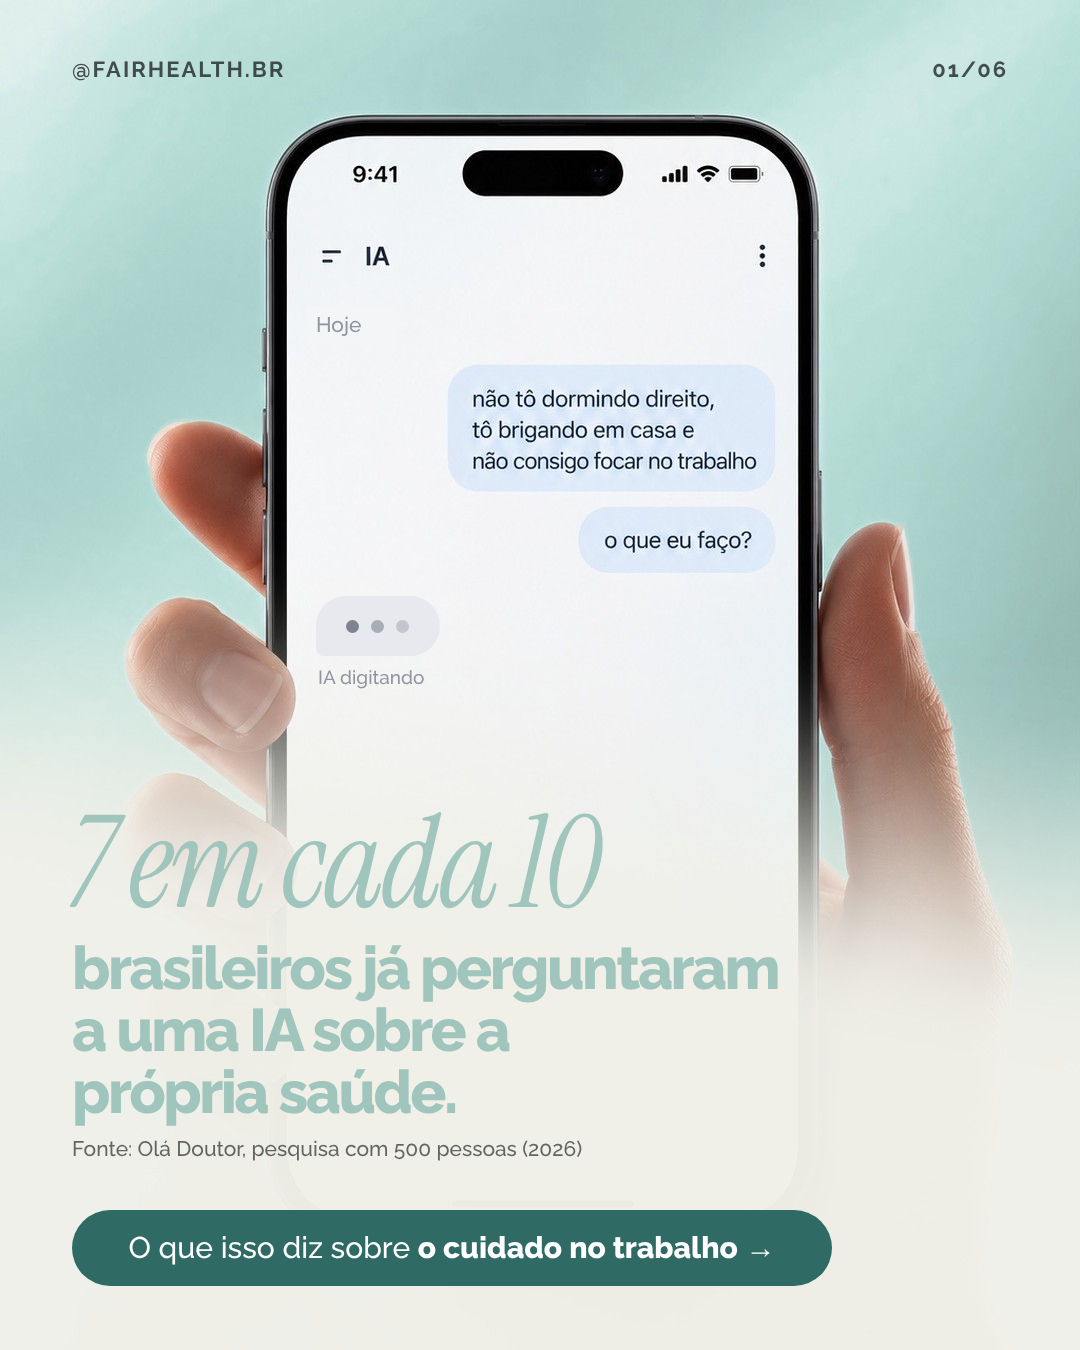
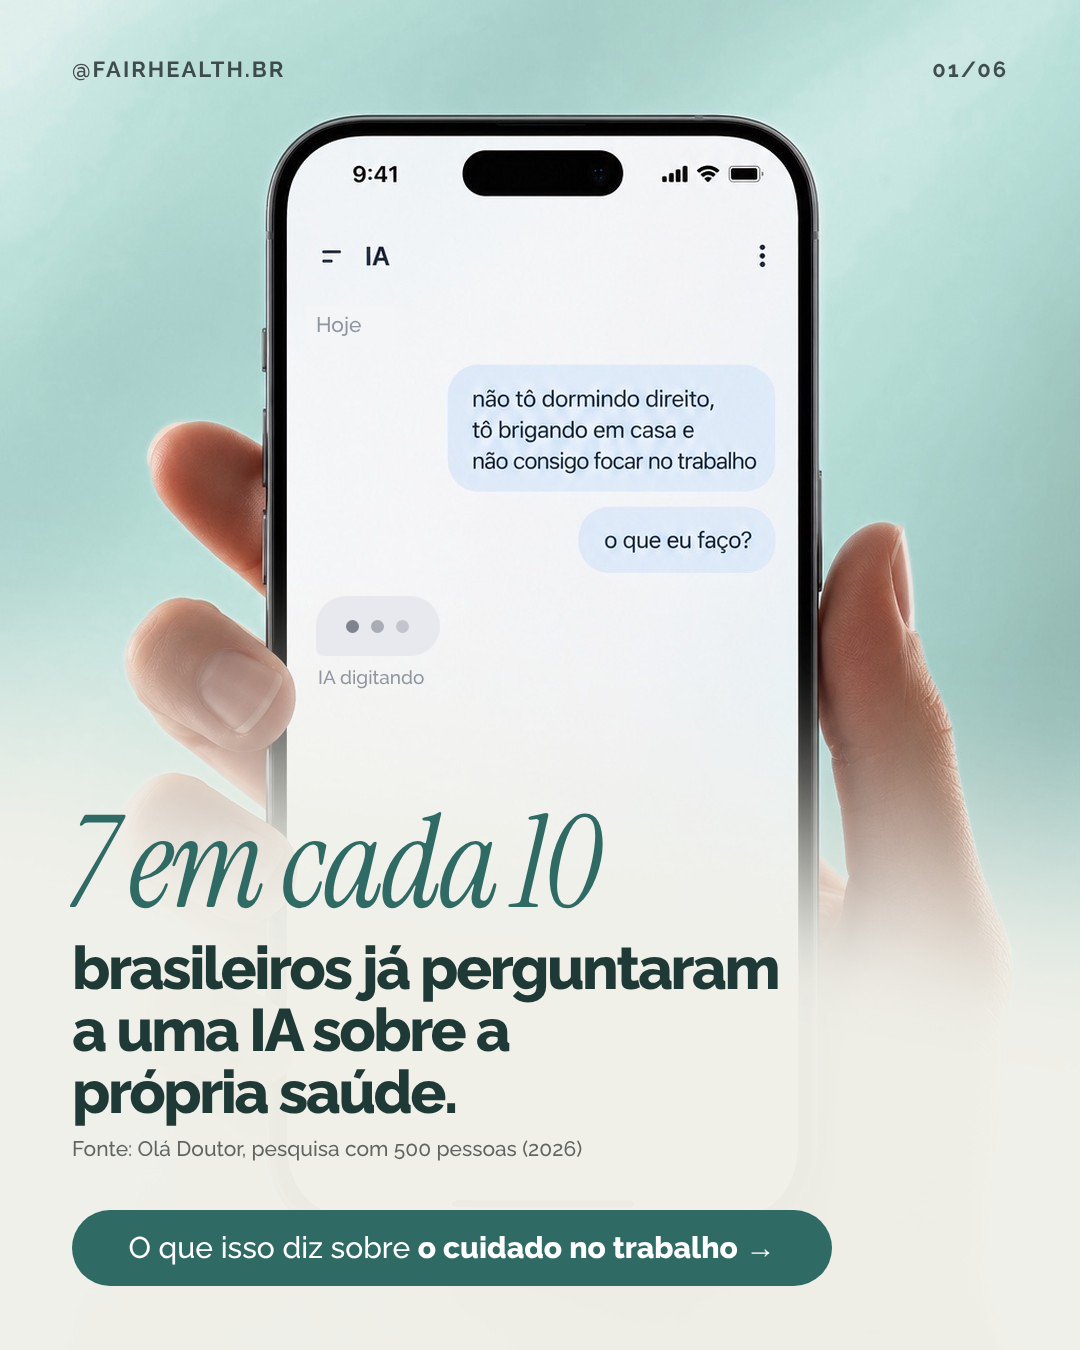
03/11 cover: darker title colors for contrast on cream
The Tiffany title looked washed out on cream: '7 em cada 10' is now dark
green (#2F6B64) and the rest is the dark text green (#1F3A36).

Claude-Session: https://claude.ai/code/session_01WTGmTcxuXR3YpUdSTauEMD

Changed region(s): [[0.0611, 0.5911, 0.7333, 0.84], [0.0611, 0.5911, 0.1222, 0.6222]]

diff --git a/instagram/posts/cuidado-na-pratica/canva.html b/instagram/posts/cuidado-na-pratica/canva.html
@@ -134,8 +134,8 @@ body{background:none;margin:0}
   <div class="abs" style="left:371px;top:620px;width:13px;height:13px;border-radius:50%;background:#7d8490;opacity:.6"></div>
   <div class="abs" style="left:396px;top:620px;width:13px;height:13px;border-radius:50%;background:#7d8490;opacity:.35"></div>
   <p class="abs" style="left:318px;top:666px;font-size:19px;font-weight:500;color:#8f95a1">IA digitando</p>
-  <p class="serif abs" style="left:66px;top:800px;font-size:128px;letter-spacing:-3px;color:var(--agua)">7 em cada 10</p>
-  <h1 class="h abs" style="left:72px;top:938px;font-size:60px;letter-spacing:-2.5px;line-height:1.03;color:var(--agua)">brasileiros já perguntaram<br>a uma IA sobre a<br>própria saúde.</h1>
+  <p class="serif abs" style="left:66px;top:800px;font-size:128px;letter-spacing:-3px;color:var(--escuro)">7 em cada 10</p>
+  <h1 class="h abs" style="left:72px;top:938px;font-size:60px;letter-spacing:-2.5px;line-height:1.03;color:#1F3A36">brasileiros já perguntaram<br>a uma IA sobre a<br>própria saúde.</h1>
   <p class="fonte abs" style="left:72px;top:1136px">Fonte: Olá Doutor, pesquisa com 500 pessoas (2026)</p>
   <div class="pil-solida" style="left:72px;bottom:64px;width:760px;height:76px"></div>
   <p class="pil-t" style="left:72px;bottom:84px;width:760px;font-size:30px;color:#fff">O que isso diz sobre <b>o cuidado no trabalho</b> →</p>

diff --git a/instagram/posts/cuidado-na-pratica/slides.html b/instagram/posts/cuidado-na-pratica/slides.html
@@ -91,8 +91,8 @@ body{background:none;margin:0}
   <div class="abs" style="left:371px;top:620px;width:13px;height:13px;border-radius:50%;background:#7d8490;opacity:.6"></div>
   <div class="abs" style="left:396px;top:620px;width:13px;height:13px;border-radius:50%;background:#7d8490;opacity:.35"></div>
   <p class="abs" style="left:318px;top:666px;font-size:19px;font-weight:500;color:#8f95a1">IA digitando</p>
-  <p class="serif abs" style="left:66px;top:800px;font-size:128px;letter-spacing:-3px;color:var(--agua)">7 em cada 10</p>
-  <h1 class="h abs" style="left:72px;top:938px;font-size:60px;letter-spacing:-2.5px;line-height:1.03;color:var(--agua)">brasileiros já perguntaram<br>a uma IA sobre a<br>própria saúde.</h1>
+  <p class="serif abs" style="left:66px;top:800px;font-size:128px;letter-spacing:-3px;color:var(--escuro)">7 em cada 10</p>
+  <h1 class="h abs" style="left:72px;top:938px;font-size:60px;letter-spacing:-2.5px;line-height:1.03;color:#1F3A36">brasileiros já perguntaram<br>a uma IA sobre a<br>própria saúde.</h1>
   <p class="fonte abs" style="left:72px;top:1136px">Fonte: Olá Doutor, pesquisa com 500 pessoas (2026)</p>
   <div class="pil-solida" style="left:72px;bottom:64px;width:760px;height:76px"></div>
   <p class="pil-t" style="left:72px;bottom:84px;width:760px;font-size:30px;color:#fff">O que isso diz sobre <b>o cuidado no trabalho</b> →</p>

diff --git a/instagram/posts/cuidado-na-pratica/README.md b/instagram/posts/cuidado-na-pratica/README.md
@@ -158,8 +158,9 @@ colaborador atendido aparece com o rosto.
 segurando o celular com a conversa (`fotos/capa-celular.jpg`, parece gerada por
 IA). O fundo azulado da foto foi recolorido para o Tiffany `#9FC5BD`, sem
 mexer na mão e no celular (`capa-recolorir.py`). Ela vai até o pé do slide e
-se funde num degradê para o creme `#F0F0E9` atrás do título, que está em
-Tiffany. O creme e o título em Tiffany seguem o pedido da Nina de 03/11
+se funde num degradê para o creme `#F0F0E9` atrás do título. O título em
+Tiffany ficou apagado sobre o creme (retorno de 03/11): o "7 em cada 10" está
+em verde-escuro `#2F6B64` e o resto em verde-escuro de texto `#1F3A36`. O creme e o título em Tiffany seguem o pedido da Nina de 03/11
 (o creme ainda está "em teste" nas diretrizes). A barra "Pergunte algo para a IA" foi
 apagada da tela para não brigar com o texto (`fotos/c-01.jpg`). Por cima, no HTML, ficaram o "Hoje" no lugar de "Today" e
 o balão da IA digitando. Antes de publicar, conferir se a mão e os dedos não
